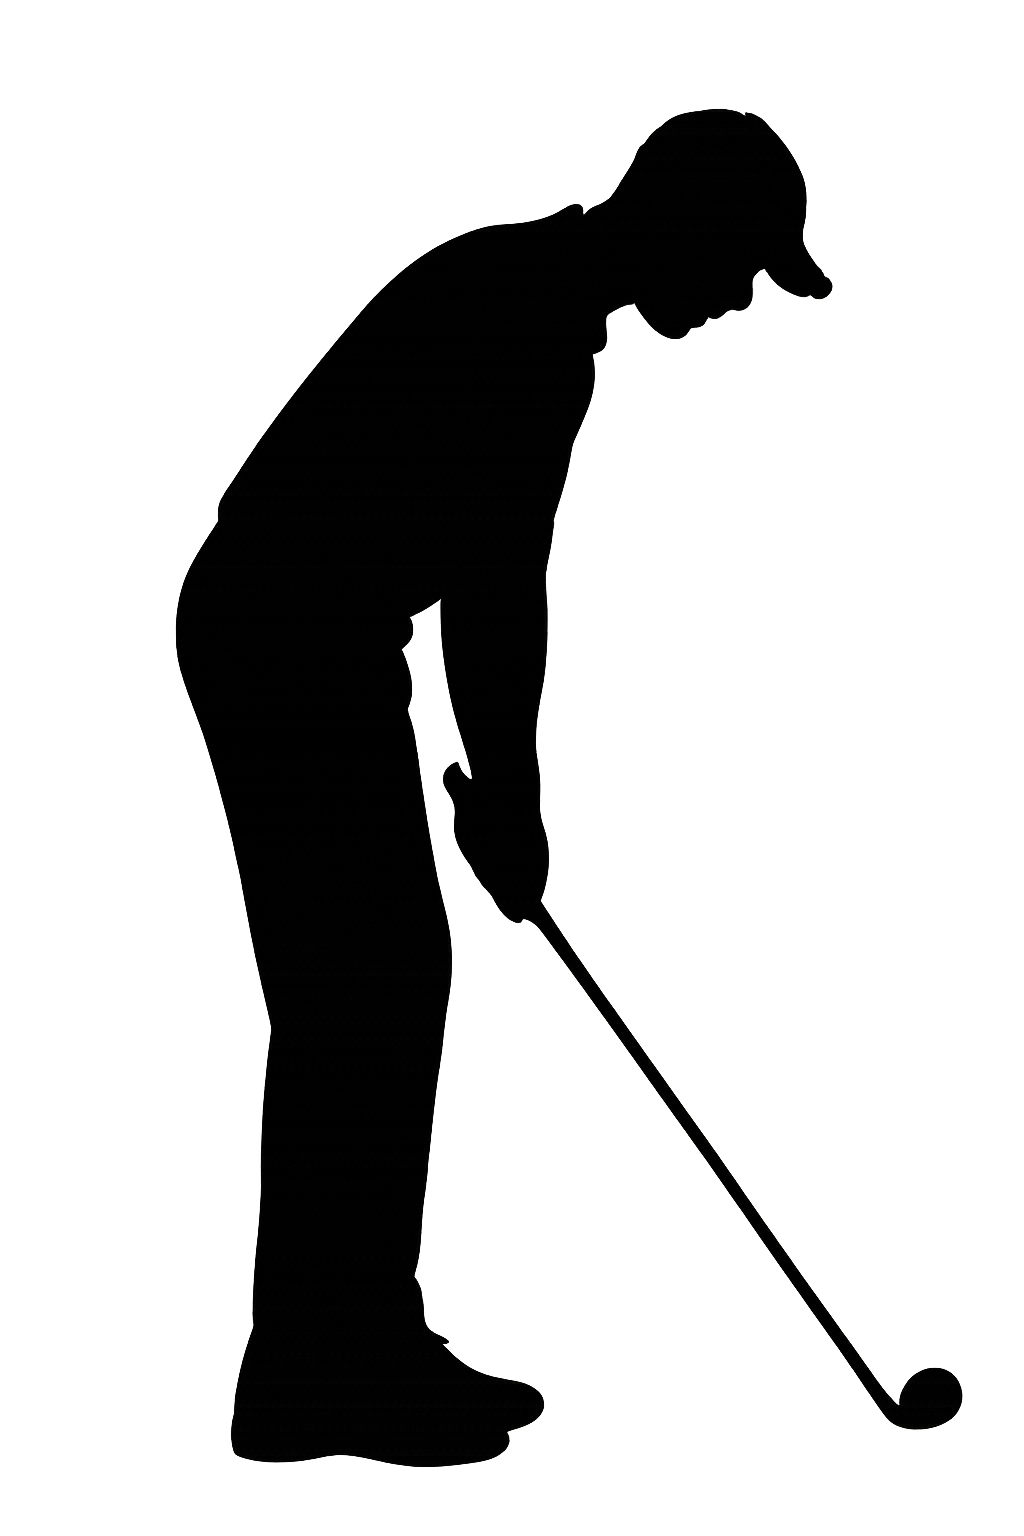
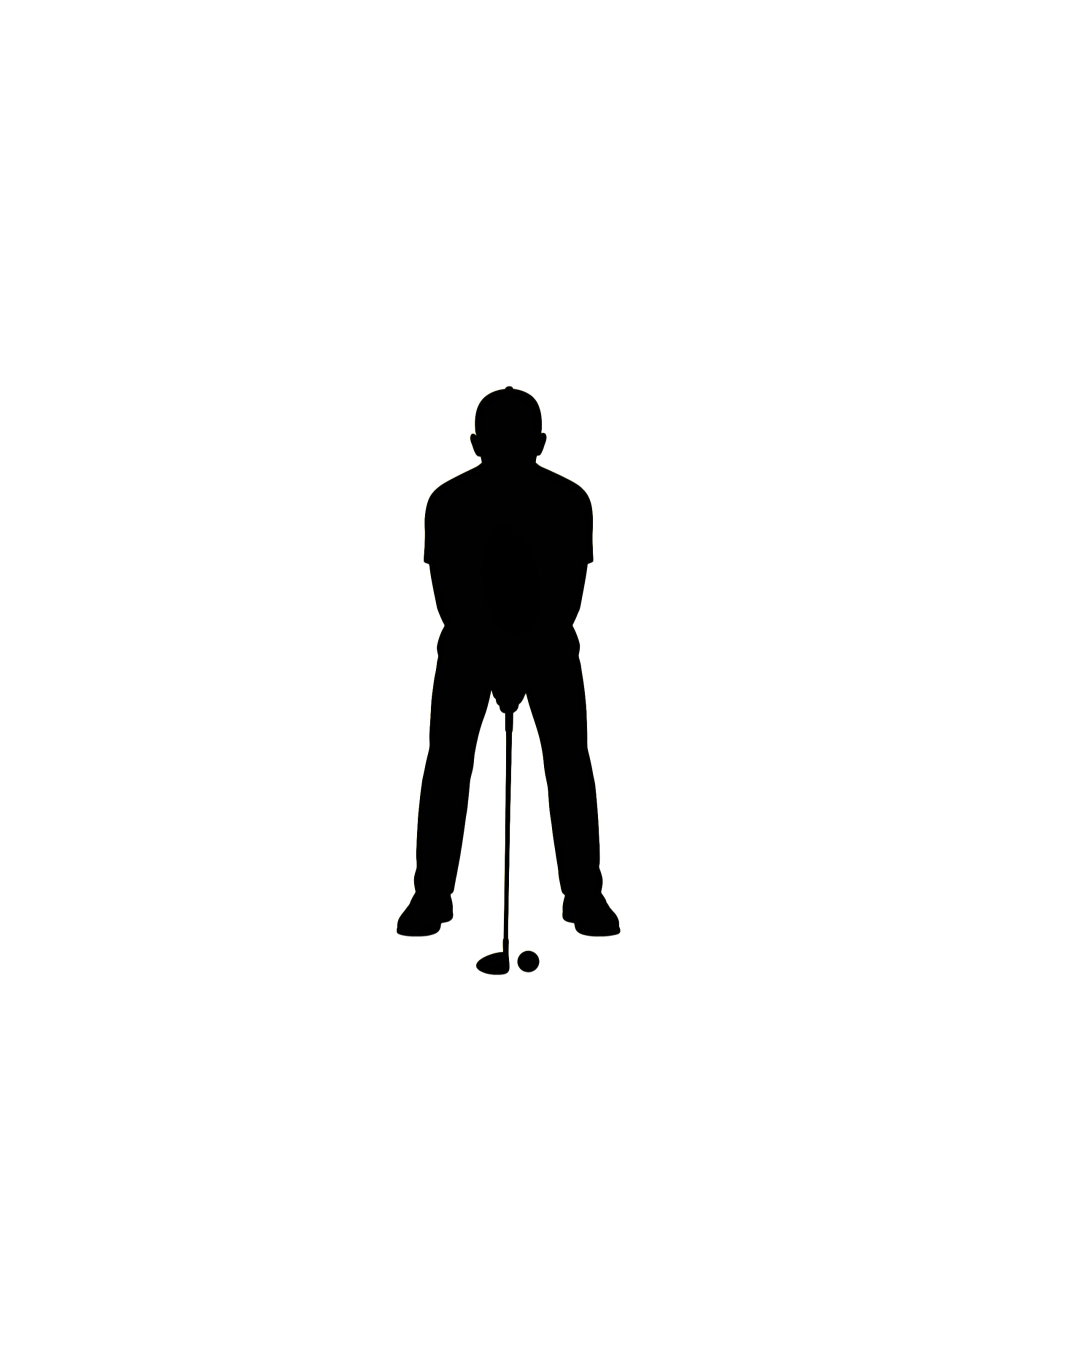
analysis: 골퍼 실루엣 크기 300%로 조정 및 BoxFit.cover 적용

diff --git a/lib/main_pages/analysis.dart b/lib/main_pages/analysis.dart
@@ -286,17 +286,18 @@ class _AnalysisPageState extends State<AnalysisPage> {
             ),
           ),
           // 골퍼 실루엣 가이드라인
-          Center(
-            child: Opacity(
-              opacity: 0.4,
-              child: Image.asset(
-                'assets/guide_golfer.png',
-                width: MediaQuery.of(context).size.width * 0.9,
-                height: MediaQuery.of(context).size.height * 0.9,
-                fit: BoxFit.contain,
+          if (!_isRecording)
+            Center(
+              child: Opacity(
+                opacity: 0.4,
+                child: Image.asset(
+                  'assets/guide_golfer.png',
+                  width: MediaQuery.of(context).size.width * 3.0,
+                  height: MediaQuery.of(context).size.height * 3.0,
+                  fit: BoxFit.cover,
+                ),
               ),
             ),
-          ),
           // 촬영 버튼
           Positioned(
             bottom: 40,
